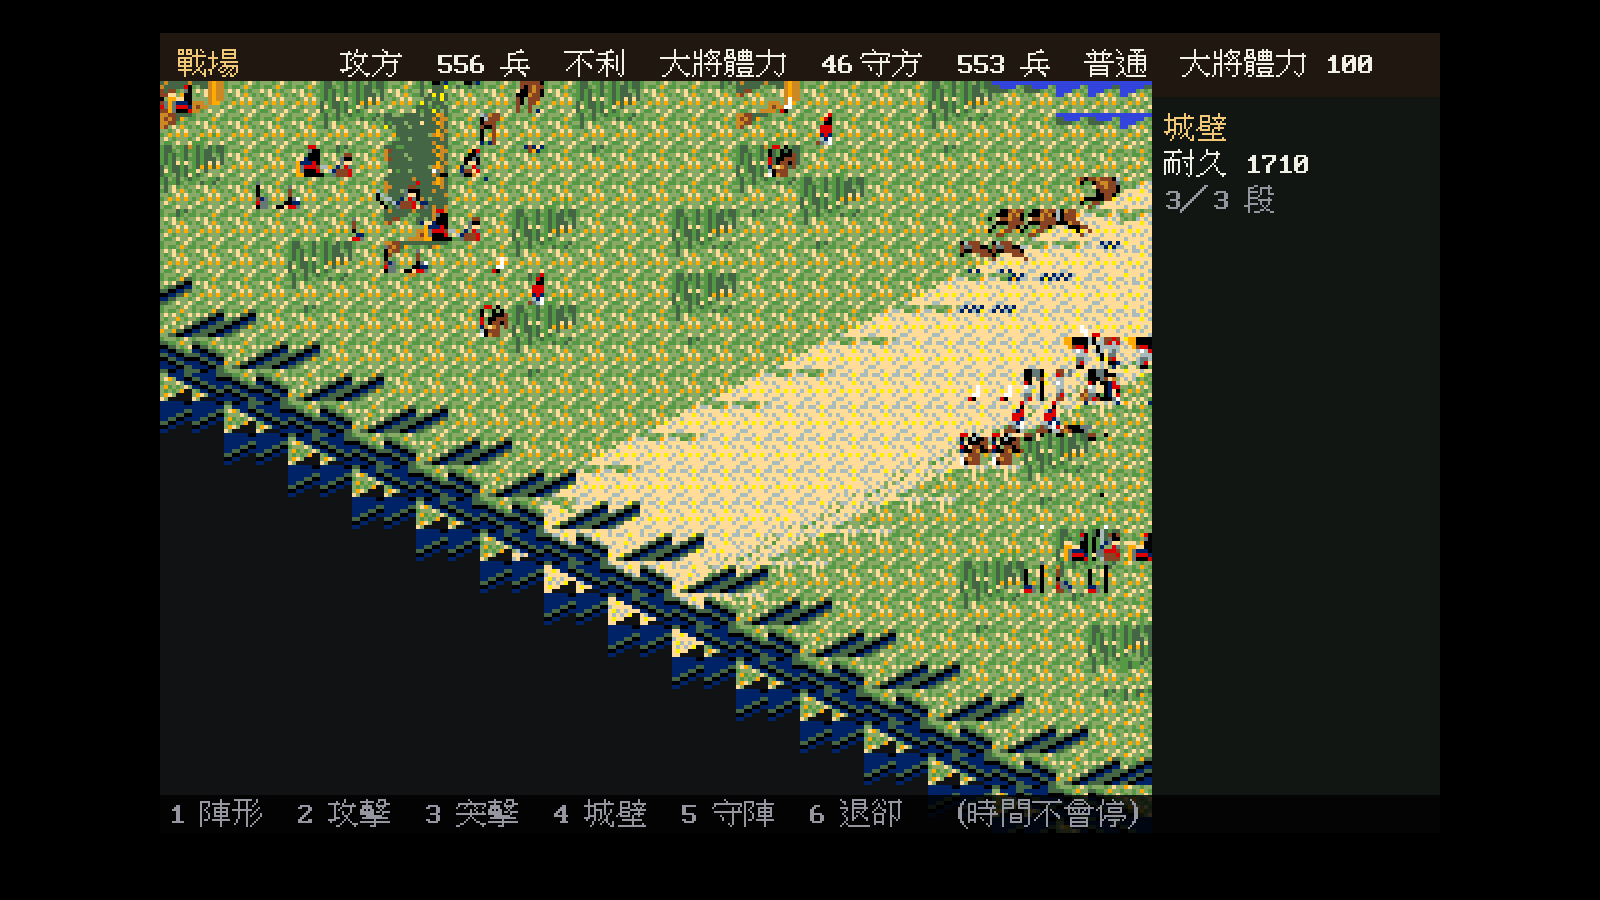
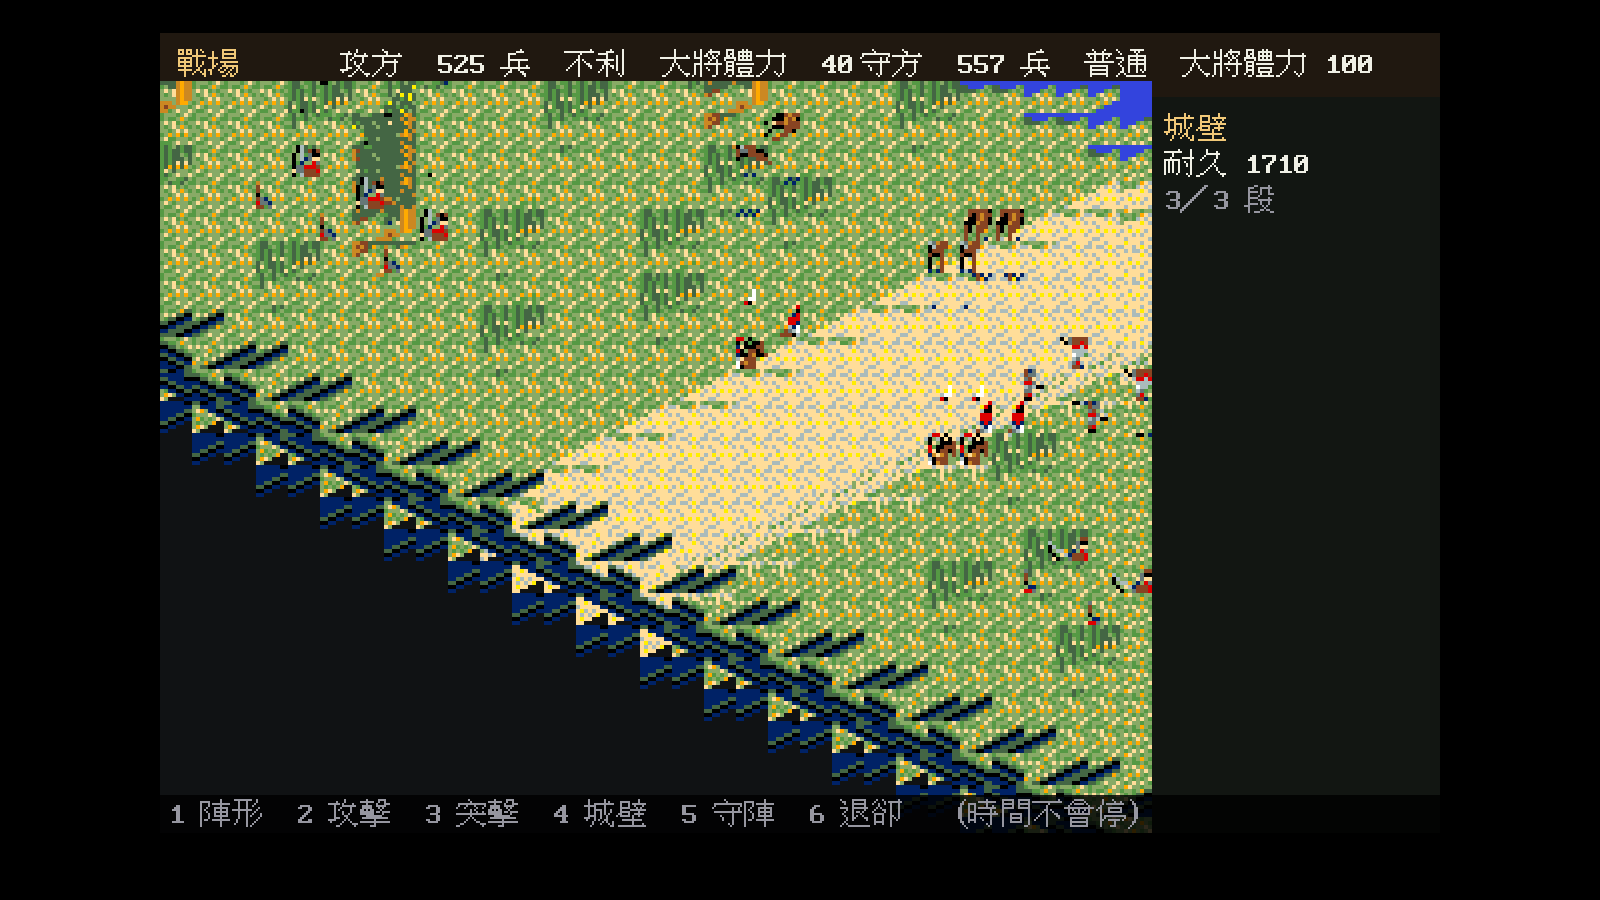
0x0E00 那組實體解出來了：場上插的軍旗
第三類實體（`sub_19CB3` 在城壁門之後用 `di = 0x200` 再叫一次 `sub_19E10`）
一直標著「梯子？投石？」。解法是上一輪剛做出來的圖號換算：

    +0x1C = 0x150 → (0x150 − 192) ÷ 2 = 72   ＝ 軍旗那一組的起點
    +0x1C = 0x204 → (0x204 − 192) ÷ 2 = 162  = 72 + 90 ＝ 另一側的軍旗

所以那是**旗**。建立條件是「那一格圖塊的**最頂層子圖塊**落在 0xBA–0xBF」，
位置是 (X, Y, 堆疊高度)，而**旗色由子圖塊編號的最低位決定，與交戰雙方無關**
——它是戰場美術的一部分，不是勢力標記。

拿 214 張戰場驗過：每張 0–48 支，**沒有一張超過 `0x0E00`–`0x1800`
之間放得下的 80 筆**（繞路點區從 0x1800 開始）。194 張有旗。
原版沒有為溢位留後路，所以「剛好塞得下」本身就是解對了的證據。

這一輪沒有推翻任何舊斷言——因為前一輪把圖號公式解對了，這一輪只是把
兩個常數丟進去換算。**解對一件事會讓下一件變便宜**，這是第三次了
（子圖塊格式 → SCH 格式 → 圖號公式 → 軍旗）。

還留著的：`+0x1B` 那個亂數 0–3 沒有已知的讀取點，標成未解。

diff --git a/internal/assets/battle/sprites.go b/internal/assets/battle/sprites.go
@@ -147,3 +147,77 @@ func SpriteFor(kind, facing, flags int) int {
 	}
 	return n
 }
+
+// ---------------------------------------------------------------------------
+// 場上的軍旗
+// ---------------------------------------------------------------------------
+
+// 戰場上插的旗（`sub_19E10`，docs/re/11 §5.14）。
+//
+// 載入時掃過 64 × 64 每一格，**看那一格圖塊的最頂層子圖塊**：
+// 落在 `0xBA`–`0xBF` 就在那裡插一支旗，記錄放在單位區的 `0x0E00` 起
+// （接在 96 個兵與 16 段城壁門後面），類型碼 3。
+//
+//	es:[di]    = 0x3C0   旗標 0xC0、類型 3
+//	es:[di+6]  = X
+//	es:[di+8]  = Y
+//	es:[di+0A] = 堆疊高度（＝ 插在地面上）
+//	es:[di+1B] = 亂數 0–3
+//	es:[di+1C] = 0x150 或 0x204   ← 最頂層子圖塊的**最低位**決定
+//
+// ⭐ 那兩個常數就是圖號：`(0x150 − 192) ÷ 2 = 72` ＝ **軍旗那一組的起點**，
+// `(0x204 − 192) ÷ 2 = 162 = 72 + 90` ＝ **另一側的軍旗**。
+// 換句話說旗子的顏色是**圖塊編號的最低位**選的，與交戰雙方無關。
+//
+// 拿 214 張戰場驗過：每張 0–48 支，**沒有一張超過 `0x0E00`–`0x1800`
+// 放得下的 80 筆**；194 張有旗。
+const (
+	TopSubTileFlagLo = 0xBA
+	TopSubTileFlagHi = 0xBF
+	// MaxBanners 是 `0x0E00` 到繞路點區 `0x1800` 之間放得下的筆數。
+	MaxBanners = (0x1800 - 0x0E00) / 32 // 80
+)
+
+// Banner 是場上的一支旗。
+type Banner struct {
+	X, Y, Z int
+	// Side 是旗色，由最頂層子圖塊的最低位決定（0 → 圖 72、1 → 圖 162）。
+	Side int
+	// Variant 是原版寫進 `+0x1B` 的亂數 0–3。
+	// ⚠ 它的用途還沒解（旗號是 `+0x1C` 直接給的，不經過這個值）。
+	Variant int
+}
+
+// Banners 回傳第 n 張戰場上所有的旗。
+//
+// rand 每支旗會被呼叫一次，對應原版的 `call sub_1ECE0 / and al, 3`。
+// 傳 nil 就一律用 0。
+func (l *Library) Banners(n int, rand func() int) []Banner {
+	t := l.TileSet(n)
+	off := FieldsBase + n*FieldSize + CellsOff
+	cells := l.mapData[off : off+NumCells]
+	var out []Banner
+	for y := 0; y < Height; y++ {
+		for x := 0; x < Width; x++ {
+			st := l.stacks[t][cells[y*Width+x]]
+			if len(st) == 0 {
+				continue
+			}
+			top := st[len(st)-1]
+			if top < TopSubTileFlagLo || top > TopSubTileFlagHi {
+				continue
+			}
+			if len(out) >= MaxBanners {
+				return out
+			}
+			v := 0
+			if rand != nil {
+				v = rand() & 3
+			}
+			out = append(out, Banner{
+				X: x, Y: y, Z: len(st), Side: int(top & 1), Variant: v,
+			})
+		}
+	}
+	return out
+}

diff --git a/cmd/wlgame/battleview.go b/cmd/wlgame/battleview.go
@@ -58,8 +58,11 @@ type battleView struct {
 	buf *ebiten.Image
 
 	// sprites 是 `BATTLE.SCH` 的人物圖形，載不到就是 nil（兵畫成色點）。
-	sprites  *battle.Sprites
-	spCache  map[int]*ebiten.Image
+	sprites *battle.Sprites
+	spCache map[int]*ebiten.Image
+
+	// banners 是場上插的旗（`sub_19E10`，docs/re/11 §5.14）。
+	banners []battle.Banner
 
 	camCol, camRow int
 }
@@ -79,6 +82,7 @@ func (g *game) newBattleView(field int) *battleView {
 		subs:  g.battleLib.SubTiles(field),
 		cache: map[int]*ebiten.Image{}, pal: bank,
 		sprites: g.battleSprites, spCache: map[int]*ebiten.Image{},
+		banners: g.battleLib.Banners(field, g.rng.Next),
 	}
 }
 
@@ -251,6 +255,7 @@ func (g *game) drawBattleIso(screen *ebiten.Image, b *tactical.Battle, me *tacti
 	}
 	v.buf.Fill(color.RGBA{16, 18, 20, 255})
 	v.drawTerrain(v.buf, 0, 0)
+	v.drawBanners(v.buf)
 
 	// 兵。畫成色塊疊在等角座標上——**人物圖形在 `BATTLE.SCH`，還沒解**，
 	// 所以這一層仍然是暫代的（README 有標）。
@@ -306,4 +311,25 @@ func (g *game) drawBattleIso(screen *ebiten.Image, b *tactical.Battle, me *tacti
 	op.GeoM.Scale(isoScale, isoScale)
 	op.GeoM.Translate(isoScreenX, isoScreenY)
 	screen.DrawImage(v.buf, op)
+}
+
+// drawBanners 畫場上插的旗。它們是靜態的實體，開場就決定好了
+// （`sub_19E10`，docs/re/11 §5.14）——旗色由圖塊編號的最低位選，
+// 與交戰雙方無關。
+func (v *battleView) drawBanners(dst *ebiten.Image) {
+	op := &ebiten.DrawImageOptions{}
+	for _, b := range v.banners {
+		px, py, ok := v.ScreenPos(0, 0, b.X, b.Y, b.Z)
+		if !ok {
+			continue
+		}
+		img := v.frame(b.Side, battle.BannerSprite)
+		if img == nil {
+			continue
+		}
+		op.GeoM.Reset()
+		op.GeoM.Translate(float64(px-battle.SpriteW/2),
+			float64(py-battle.SpriteH+isoRowPx))
+		dst.DrawImage(img, op)
+	}
 }

diff --git a/internal/assets/battle/battle_test.go b/internal/assets/battle/battle_test.go
@@ -352,3 +352,41 @@ func TestSpriteForMatchesOriginal(t *testing.T) {
 		t.Errorf("地形子圖塊 %d 個，原版的偏移是 0xC0 ＝ 192", NumSubTiles)
 	}
 }
+
+// 場上的軍旗（`sub_19E10`）：頂層子圖塊 0xBA–0xBF 的格子上各插一支。
+//
+// 兩條檢查：
+//   - **沒有一張戰場超過 80 支**——那正是 `0x0E00` 到繞路點區 `0x1800`
+//     之間放得下的筆數。原版沒有為溢位留後路，所以「剛好塞得下」就是證據。
+//   - 旗色來自子圖塊的最低位，兩種都要出現（否則就是位元取錯了）。
+func TestBannersFitTheEntityArea(t *testing.T) {
+	l := load(t)
+	most, with := 0, 0
+	side := [2]int{}
+	for n := 0; n < NumFields; n++ {
+		b := l.Banners(n, nil)
+		if len(b) > most {
+			most = len(b)
+		}
+		if len(b) > 0 {
+			with++
+		}
+		for _, x := range b {
+			side[x.Side]++
+			if x.Z < 1 {
+				t.Fatalf("戰場 %d 的旗在 Z=%d，應該站在地面上", n, x.Z)
+			}
+		}
+	}
+	if most > MaxBanners {
+		t.Errorf("最多的一張有 %d 支旗，超過 %d 筆的額度", most, MaxBanners)
+	}
+	if with == 0 {
+		t.Error("214 張戰場一支旗都沒有——子圖塊區間可能抓錯")
+	}
+	if side[0] == 0 || side[1] == 0 {
+		t.Errorf("旗色分佈 %v，兩種都該出現", side)
+	}
+	t.Logf("%d／%d 張有旗，最多 %d 支（額度 %d），兩色 %d／%d",
+		with, NumFields, most, MaxBanners, side[0], side[1])
+}

diff --git a/docs/re/11-tactical-battle.md b/docs/re/11-tactical-battle.md
@@ -1435,6 +1435,46 @@ shr ax, 1 / shr ax, 1 / add si, ax      ; ★ si ＝ 編號 × 320
 它把**後面那一格的下半截**貼進這一格的上半——高的人物會壓到後排，
 遮蔽就是這樣處理的。
 
+### 5.14 ⭐ `0x0E00` 那組實體 ＝ 場上插的軍旗
+
+`sub_19CB3` 在城壁與門（`0x0C00`）之後，用 `di = 0x200` 再叫一次
+`sub_19E10`，也就是從 **`0x0E00`** 開始建第三類實體：
+
+```asm
+bl = [si]                  ; 圖塊值
+bx = 圖塊值 × 8
+ah = [bx]                  ; 堆疊高度
+bl += ah ; al = [bx]       ; ★ 最頂層的子圖塊編號
+sub al, 0BAh / jb .skip
+cmp al, 6    / jnb .skip   ; ★ 只有 0xBA–0xBF 才建
+mov word ptr es:[di], 3C0h ; 旗標 0xC0、類型 3
+mov es:[di+6], cl          ; X
+mov es:[di+8], ch          ; Y
+mov es:[di+0Ah], ah        ; Z ＝ 堆疊高度（站在地面上）
+mov dx, 150h
+test al, 1 / jz .keep
+mov dx, 204h               ; ★ 最頂層子圖塊的最低位決定用哪一個
+.keep:
+mov es:[di+1Ch], dx
+call sub_1ECE0 / and al, 3
+mov es:[di+1Bh], al        ; 亂數 0–3
+```
+
+⭐ **那兩個常數就是圖號。** 用 §5.13 的換算反推：
+
+	(0x150 − 192) ÷ 2 = 72    ＝ 軍旗那一組的起點
+	(0x204 − 192) ÷ 2 = 162   = 72 + 90 ＝ 另一側的軍旗
+
+所以這一類是**旗**，而且**旗色是圖塊編號的最低位選的，與交戰雙方無關**——
+它是戰場美術的一部分，不是勢力標記。
+
+拿 214 張戰場驗過：每張 0–48 支，**沒有一張超過 `0x0E00`–`0x1800`
+之間放得下的 80 筆**（繞路點區從 `0x1800` 開始，§5.8k）；194 張有旗。
+原版沒有為溢位留後路，所以「剛好塞得下」本身就是解對了的證據。
+
+⚠ `+0x1B` 那個亂數 0–3 的用途**還沒解**——旗號是 `+0x1C` 直接給的，
+不經過它。
+
 ## 6. 還沒解的
 
 按「解開之後能換到什麼」排序：
@@ -1457,7 +1497,8 @@ shr ax, 1 / shr ax, 1 / add si, ax      ; ★ si ＝ 編號 × 320
 | ~~16 種陣形表~~ | ✅ `KI.EXE` 檔案偏移 `0xCEE4`，16 × 48 × 2 B（§5.8d） |
 | ~~勝負判定~~ | ✅ `word_1D31C` 兩個 byte ＝ 兩軍兵數，歸零就結束（§5.9） |
 | ~~`0xC00` 那張 16 筆的表~~ | ✅ **門與城壁**，從圖塊值 `0xD0`–`0xDF`／`0xF0`–`0xF7` 長出來（§5.11） |
-| **物件格 `0xBA`–`0xBF` 是什麼** | `sub_19E10` 生成的 32 B 記錄（`0x0E00` 起），`+0x1C` 是 `0x150`／`0x204` | 梯子？投石？ |
+| ~~物件格 `0xBA`–`0xBF` 是什麼~~ | ✅ **場上插的軍旗**；`0x150`／`0x204` 換算回來正是軍旗那一組的兩個圖號（§5.14） |
+| 軍旗記錄的 `+0x1B` | 亂數 0–3，沒有已知的讀取點 | — |
 | **`[si+05]` 一下打穿城壁的條件** | `seg000:B5B7`（§5.11） | 攻城戰的節奏 |
 | ~~像素格式~~ | ✅ **192 個子圖塊 × 320 B ＝ 五個 64 B 位元平面**（遮罩 ＋ 4bpp），16 × 32（docs/formats/07 §9） |
 | ~~人物圖形~~ | ✅ 與子圖塊同格式，圖號 ＝ 兵種 ＋（面向×2｜旗標）＋ 側×90（§5.13） |

diff --git a/README.md b/README.md
@@ -158,6 +158,10 @@
 - 打完扣據點的上昇值、防災值、城兵數，**扣多少由城壁被打掉多少決定**——
   說明書 6.1 那句「打って出た方が拠点への被害は小さくなります」就是這條
 
+場上還會插旗：載入時掃過每一格，**最頂層子圖塊落在 `0xBA`–`0xBF` 就插一支**
+（`sub_19E10`）。旗色是圖塊編號的最低位選的，**與交戰雙方無關**——
+那是戰場美術的一部分。每張圖 0–48 支，正好塞得進原版留的 80 筆額度。
+
 圖塊區間拿原版的 `BATTLE.MAP` 全掃過：**186 張攻城戰場全部命中，零例外**，
 而且每張圖的「城壁段數 ＋ 門數」都塞得進那 16 筆的額度——
 原版沒有為溢位留後路，所以「剛好塞得下」本身就是解對了的證據。
